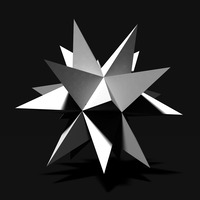
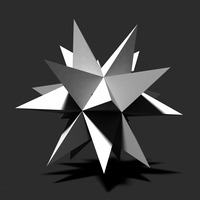
Lighter dark mode

diff --git a/style/_common.scss b/style/_common.scss
@@ -22,9 +22,9 @@ $mourning: yes;
     --link-hover-color: #00f;
 
     @media (prefers-color-scheme: dark) {
-        --bg-color: #121212;
-        --sidebar-bg-color: var(--bg-color);
-        --blockquote-bg-color: #222;
+        --bg-color: #2C2C2C;
+        --sidebar-bg-color: #202020;
+        --blockquote-bg-color: #383838;
 
         --fg-color: #eeeeee;
         --footer-fg-color: var(--fg-color);

diff --git a/style/mainstyle.scss b/style/mainstyle.scss
@@ -28,6 +28,9 @@ body {
     padding: 0.5em 0;
     @if $mourning == yes {
         border-bottom: 15px solid #333;
+        @media (prefers-color-scheme: dark) {
+            border-bottom-color: #111;
+        }
     }
     @else {
         border-bottom: 1px solid #ccc;

diff --git a/style/style.scss b/style/style.scss
@@ -181,7 +181,7 @@ body {
         background: url(pix/hilbert.png);
 
         @media (prefers-color-scheme: dark) {
-            background: #222;
+            background: #111;
         }
         border: $outer-border-large solid $thick-border-color;
 
